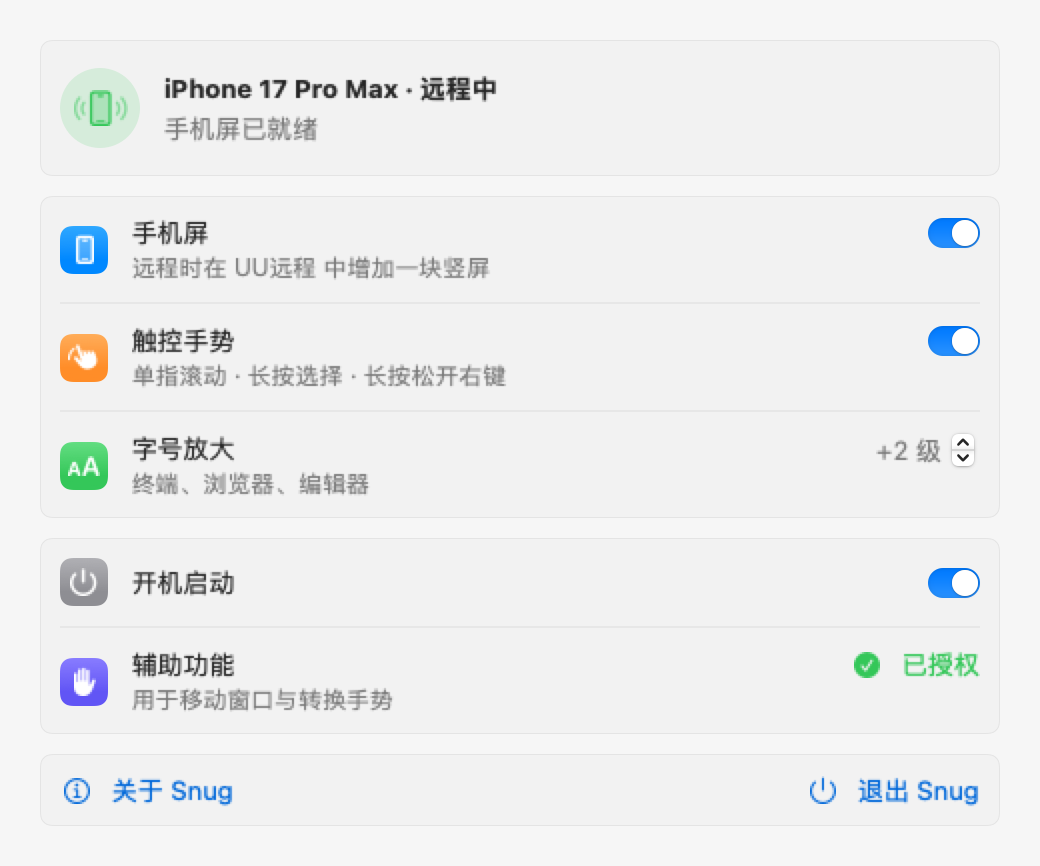
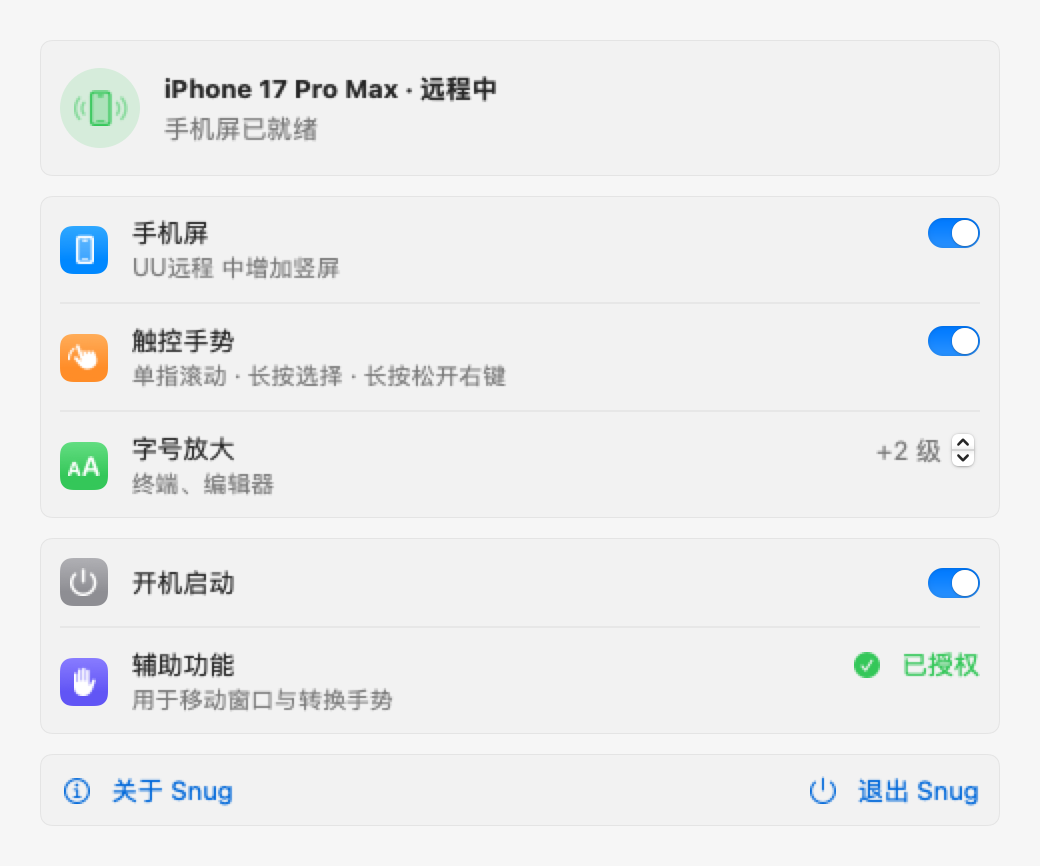
界面与工程收尾：设置页两类错误分开提示；文案改短词；列表只在用手机屏时刷新；UU 标识与辅助功能封装各留一处
- 设置页：「设置未保存」「开机启动未生效 · 需位于「应用程序」」各占一个提示位，各自成功时只清自己；
  系统给的长句错误只进日志，不进界面
- 旧版共存提示、关于页、手机屏开关的说明改成短词；字号放大的说明去掉浏览器
- 横屏按钮只在横竖切换时转圈，别的动作进行中只禁用
- 窗口列表只在手机正看着手机屏时刷新（不知道 UU 在推哪块屏时照旧刷）：每轮都要读一遍所有 App 的窗口，
  还和搬窗口共用一条队，很多会话从头到尾不切到手机屏
- UU 的 bundle ID 和 UURemoteServer 进程名收进 SnugCore 的 UURemote；UU 感知复用 SnugSystem 的 AX 封装，
  权限一律读 AX.isTrusted
- 删掉只有测试在用的 UUSignals.isPresent、SnugPaths.rotatedLogFile，和没人 import 的 SystemSettingsKit 依赖
- 改掉过期注释（DisplayID、ControllerReader）；README 配图按新界面重渲染，用法里写明列表覆盖所有窗口

Changed region(s): [[0.1231, 0.2806, 0.4923, 0.343], [0.2769, 0.53, 0.3692, 0.5924], [0.1846, 0.53, 0.2462, 0.5924]]

diff --git a/Sources/Snug/Sensing/UUAccessibility.swift b/Sources/Snug/Sensing/UUAccessibility.swift
@@ -4,14 +4,12 @@
 // 进程号由调用方在主线程查好传进来，后台只碰 AX，不碰 AppKit
 import ApplicationServices
 import SnugCore
+import SnugSystem
 
 enum UUAccessibility {
-    static let bundleID = "com.netease.uuremote"
     /// AX 树有环，按对象去重之外再限制深度和节点数；超限按「读不到」处理，不拿半截结果当真
     static let maxDepth = 25
     static let maxNodes = 2048
-
-    static var isTrusted: Bool { AXIsProcessTrusted() }
 
     /// 「本机被控中」表格里的控制端名称。主窗口读不到返回 nil，明确无人控制返回 []
     static func readControllers(pid: pid_t) -> [String]? {
@@ -31,29 +29,18 @@ enum UUAccessibility {
         return names
     }
 
-    // MARK: AX 基础
+    // MARK: AX 基础（薄封装在 SnugSystem 的 AX）
 
-    private static func appElement(_ pid: pid_t) -> AXUIElement {
-        let ax = AXUIElementCreateApplication(pid)
-        AXUIElementSetMessagingTimeout(ax, 1.0)
-        return ax
-    }
-
-    private static func attr(_ el: AXUIElement, _ name: String) -> AnyObject? {
-        var v: AnyObject?
-        return AXUIElementCopyAttributeValue(el, name as CFString, &v) == .success ? v : nil
-    }
-
-    private static func role(_ el: AXUIElement) -> String? { attr(el, kAXRoleAttribute) as? String }
-    private static func value(_ el: AXUIElement) -> String? { attr(el, kAXValueAttribute) as? String }
+    private static func role(_ el: AXUIElement) -> String? { AX.string(el, kAXRoleAttribute) }
+    private static func value(_ el: AXUIElement) -> String? { AX.string(el, kAXValueAttribute) }
 
     /// 窗口列表之外再读主窗口和焦点窗口：别的 App 占着全屏 Space 时，UU 的 AXWindows 可能是空的，
     /// 主窗口引用却还有效。按 AX 对象去重，不激活 UU、不切 Space（思路来自社区 PR #10，作者 Rongzheng Liu）
     private static func windows(pid: pid_t) -> [AXUIElement] {
-        let app = appElement(pid)
-        var result = (attr(app, kAXWindowsAttribute) as? [AXUIElement]) ?? []
+        let app = AX.application(pid)
+        var result = (AX.attribute(app, kAXWindowsAttribute) as? [AXUIElement]) ?? []
         for key in [kAXMainWindowAttribute, kAXFocusedWindowAttribute] {
-            guard let raw = attr(app, key), CFGetTypeID(raw) == AXUIElementGetTypeID() else { continue }
+            guard let raw = AX.attribute(app, key), CFGetTypeID(raw) == AXUIElementGetTypeID() else { continue }
             let window = raw as! AXUIElement
             guard role(window) == kAXWindowRole, !result.contains(where: { CFEqual($0, window) }) else { continue }
             result.append(window)
@@ -79,7 +66,7 @@ enum UUAccessibility {
         guard depth < maxDepth, out.count < maxNodes else { return false }
         seen.insert(node)
         out.append(node)
-        for child in (attr(node, kAXChildrenAttribute) as? [AXUIElement]) ?? [] {
+        for child in (AX.attribute(node, kAXChildrenAttribute) as? [AXUIElement]) ?? [] {
             guard flatten(child, depth: depth + 1, into: &out, seen: &seen) else { return false }
         }
         return true

diff --git a/Sources/Snug/UI/SettingsWindow.swift b/Sources/Snug/UI/SettingsWindow.swift
@@ -14,7 +14,7 @@ struct SettingsView: View {
             Section { StatusHeader(state: state, intents: intents) }
             Section {
                 Toggle(isOn: binding(state.config.phoneScreen, intents.setPhoneScreen)) {
-                    SettingLabel("手机屏", detail: "远程时在 UU远程 中增加一块竖屏", symbol: "iphone", tint: .blue)
+                    SettingLabel("手机屏", detail: "UU远程 中增加竖屏", symbol: "iphone", tint: .blue)
                 }
                 Toggle(isOn: binding(state.config.gestures, intents.setGestures)) {
                     SettingLabel("触控手势", detail: "单指滚动 · 长按选择 · 长按松开右键", symbol: "hand.draw.fill", tint: .orange)
@@ -29,7 +29,7 @@ struct SettingsView: View {
                             .labelsHidden()
                     }
                 } label: {
-                    SettingLabel("字号放大", detail: "终端、浏览器、编辑器", symbol: "textformat.size", tint: .green)
+                    SettingLabel("字号放大", detail: "终端、编辑器", symbol: "textformat.size", tint: .green)
                 }
                 .disabled(!state.config.phoneScreen)
             }
@@ -123,8 +123,11 @@ private struct StatusHeader: View {
                     Button("退出旧版") { intents.quitLegacyApp() }
                 }
             }
-            if let notice = state.notice {
-                Label(notice, systemImage: "exclamationmark.circle.fill").foregroundStyle(.orange)
+            if state.configSaveFailed {
+                Label("设置未保存", systemImage: "exclamationmark.circle.fill").foregroundStyle(.orange)
+            }
+            if state.loginItemFailed {
+                Label("开机启动未生效 · 需位于「应用程序」", systemImage: "exclamationmark.circle.fill").foregroundStyle(.orange)
             }
         }
         .padding(.vertical, 4)

diff --git a/Sources/SnugSystem/TouchTap.swift b/Sources/SnugSystem/TouchTap.swift
@@ -31,7 +31,7 @@ public final class TouchTap {
             return false
         }
         session = next
-        Log.info("手势翻译已开启（只接管 \(TapSession.sourceProcess) 发来、在手机屏里的操作）")
+        Log.info("手势翻译已开启（只接管 \(UURemote.serverProcess) 发来、在手机屏里的操作）")
         return true
     }
 
@@ -45,8 +45,6 @@ public final class TouchTap {
 
 /// 一次监听：自己的线程、自己的 run loop、自己的状态机。除了 start / stop，其余都只在这个线程上跑
 private final class TapSession: @unchecked Sendable {
-    /// UU 在 Mac 上注入事件的进程
-    static let sourceProcess = "UURemoteServer"
     /// eventSourceUserData 里的记号（'SNUG'）
     static let marker: Int64 = 0x534E_5547
 
@@ -199,7 +197,7 @@ private final class TapSession: @unchecked Sendable {
         var buffer = [CChar](repeating: 0, count: Int(MAXPATHLEN))
         let length = Int(proc_pidpath(pid, &buffer, UInt32(buffer.count)))
         let path = length > 0 ? String(decoding: buffer.prefix(length).map { UInt8(bitPattern: $0) }, as: UTF8.self) : ""
-        let match = (path as NSString).lastPathComponent == Self.sourceProcess
+        let match = (path as NSString).lastPathComponent == UURemote.serverProcess
         isUU[pid] = match
         return match
     }

diff --git a/Sources/Snug/App/AppController+Intents.swift b/Sources/Snug/App/AppController+Intents.swift
@@ -20,11 +20,11 @@ extension AppController: AppIntents {
     func setLaunchAtLogin(_ on: Bool) {
         do {
             if on { try SMAppService.mainApp.register() } else { try SMAppService.mainApp.unregister() }
-            state.notice = nil
+            state.update(\.loginItemFailed, false)
             Log.info("设置：开机启动 → \(on ? "开" : "关")")
         } catch {
-            state.notice = "开机启动设置失败：请将 Snug 移至「应用程序」后重试"
-            Log.error("开机启动设置失败：\(error)")
+            state.update(\.loginItemFailed, true)
+            Log.error("开机启动设置失败（\(Bundle.main.bundlePath)）：\(error)")
         }
         refreshLaunchAtLogin()
     }
@@ -72,11 +72,12 @@ extension AppController: AppIntents {
         do {
             try store.update(change)
         } catch {
-            state.notice = "设置未能保存：\(error.localizedDescription)"
+            state.update(\.configSaveFailed, true)
             Log.error("设置（\(what)）写盘失败：\(error)")
             return false
         }
         Log.info("设置：\(what)")
+        state.update(\.configSaveFailed, false)
         state.update(\.config, store.config)
         return true
     }

diff --git a/Sources/Snug/PhoneScreen/PhoneHomeView.swift b/Sources/Snug/PhoneScreen/PhoneHomeView.swift
@@ -41,7 +41,8 @@ struct PhoneHomeView: View {
         HStack(alignment: .center, spacing: 16) {
             Text("窗口").font(PhoneStyle.largeTitle)
             Spacer(minLength: 8)
-            RotateButton(orientation: phone.orientation, busy: phone.work != nil) { intents.rotate() }
+            RotateButton(orientation: phone.orientation, rotating: phone.work == .rotating) { intents.rotate() }
+                .disabled(phone.work != nil)
         }
     }
 
@@ -187,13 +188,13 @@ private struct RoundButton: View {
 
 private struct RotateButton: View {
     let orientation: Orientation
-    let busy: Bool
+    let rotating: Bool
     let action: () -> Void
 
     var body: some View {
         Button(action: action) {
             HStack(spacing: 8) {
-                if busy {
+                if rotating {
                     ProgressView().controlSize(.small)
                 } else {
                     Image(systemName: orientation == .portrait ? "rectangle.landscape.rotate" : "rectangle.portrait.rotate")
@@ -206,7 +207,6 @@ private struct RotateButton: View {
             .background(PhoneStyle.card, in: Capsule())
         }
         .buttonStyle(PressableStyle())
-        .disabled(busy)
     }
 }
 

diff --git a/Sources/Snug/Sensing/ControllerReader.swift b/Sources/Snug/Sensing/ControllerReader.swift
@@ -1,9 +1,10 @@
 // 后台读 UU 的「本机被控中」表格：串行，同一时刻只有一次读取在跑（不堆积），读得太慢的结果丢弃。
-// 结果放在加锁的盒子里，主线程每拍直接取，不经主队列转发。旧版把结果投回主线程再按「到达时间」判新鲜，
-// 主线程一卡 2 秒，后台早就读好的结果也被当成过期丢掉，没有覆盖窗口的会话就被误判断开（B4）
+// 结果放在加锁的盒子里，主线程每拍直接取，不经主队列转发：结果要是投回主线程、按到达时间判新鲜，
+// 主线程一卡，后台早就读好的结果也会被当成过期，没有覆盖窗口的会话就会被误判断开
 import Foundation
 import os
 import SnugCore
+import SnugSystem
 
 @MainActor
 final class ControllerReader {
@@ -21,7 +22,7 @@ final class ControllerReader {
 
     /// 每拍调用：返回此刻可信的控制端（nil = 读不到），没有读取在跑就发起下一次
     func poll() -> [String]? {
-        guard UUAccessibility.isTrusted, let pid = UURemoteApp.pid() else {
+        guard AX.isTrusted, let pid = UURemoteApp.pid() else {
             reset()
             return nil
         }

diff --git a/Sources/Snug/PhoneScreen/PhoneScreenWindows.swift b/Sources/Snug/PhoneScreen/PhoneScreenWindows.swift
@@ -30,6 +30,7 @@ final class PhoneScreenWindows {
     private func follow() {
         withObservationTracking {
             _ = state.phone
+            _ = state.streamedDisplay
         } onChange: { [weak self] in
             DispatchQueue.main.async {
                 MainActor.assumeIsolated {
@@ -52,11 +53,12 @@ final class PhoneScreenWindows {
         homeBar.setFrame(homeBarFrame(on: screen), display: true)
 
         let showList = phone.listVisible || phone.placed == nil
-        if showList {
-            list.orderFrontRegardless()
+        if showList { list.orderFrontRegardless() } else { list.orderOut(nil) }
+        // 列表每轮要把所有 App 的窗口读一遍，还和搬窗口共用一条队：手机没在看手机屏就不刷。
+        // 不知道 UU 在推哪块屏（推流日志没读到）时照旧刷
+        if showList, state.streamedDisplay == nil || state.phoneInUse {
             catalog.startRefreshing()
         } else {
-            list.orderOut(nil)
             catalog.stopRefreshing()
         }
         if phone.placed != nil, !showList { homeBar.orderFrontRegardless() } else { homeBar.orderOut(nil) }

diff --git a/Sources/Snug/Sensing/UURemoteApp.swift b/Sources/Snug/Sensing/UURemoteApp.swift
@@ -1,12 +1,13 @@
 // UU远程 自身的几样直接观测：进程号、覆盖窗口在不在屏
 import AppKit
 import CoreGraphics
+import SnugCore
 
 @MainActor
 enum UURemoteApp {
     /// UU远程 主程序的进程号；没在运行返回 nil
     static func pid() -> pid_t? {
-        NSRunningApplication.runningApplications(withBundleIdentifier: UUAccessibility.bundleID).first?.processIdentifier
+        NSRunningApplication.runningApplications(withBundleIdentifier: UURemote.bundleID).first?.processIdentifier
     }
 
     /// UURemoteServer 的覆盖窗口在屏：被远程时 UU 会在本机屏幕上放一个提示窗口
@@ -14,6 +15,6 @@ enum UURemoteApp {
         guard let list = CGWindowListCopyWindowInfo([.optionOnScreenOnly], kCGNullWindowID) as? [[String: Any]] else {
             return false
         }
-        return list.contains { ($0[kCGWindowOwnerName as String] as? String) == "UURemoteServer" }
+        return list.contains { ($0[kCGWindowOwnerName as String] as? String) == UURemote.serverProcess }
     }
 }

diff --git a/Sources/Snug/App/AppController.swift b/Sources/Snug/App/AppController.swift
@@ -37,7 +37,7 @@ final class AppController {
         desk = PhoneDesk(displays: PhoneDisplayService(helper: helper), windows: windows, paths: paths,
                          defaultZoom: store.config.zoomSteps)
         state.config = store.config
-        state.accessibilityTrusted = UUAccessibility.isTrusted
+        state.accessibilityTrusted = AX.isTrusted
     }
 
     var now: Date { anchor.date.addingTimeInterval(ProcessInfo.processInfo.systemUptime - anchor.uptime) }
@@ -105,7 +105,7 @@ final class AppController {
 
     /// 权限是用户在系统设置里给的，随时会变：刚给上时把上次没放回去的窗口放回去
     private func refreshTrust() {
-        let trusted = UUAccessibility.isTrusted
+        let trusted = AX.isTrusted
         guard trusted != state.accessibilityTrusted else { return }
         state.accessibilityTrusted = trusted
         Log.info("辅助功能权限：\(trusted ? "已授权" : "被收回")")

diff --git a/Sources/Snug/UI/LegacyNotice.swift b/Sources/Snug/UI/LegacyNotice.swift
@@ -13,9 +13,9 @@ struct LegacyNoticeView: View {
                 Image(systemName: "exclamationmark.triangle.fill").font(.title).foregroundStyle(.orange)
                 VStack(alignment: .leading, spacing: 8) {
                     Text("旧版「UU远程伴侣」运行中").font(.title3.bold())
-                    Text("两者同时运行会相互干扰")
+                    Text("与 Snug 同时运行将相互干扰")
                         .fixedSize(horizontal: false, vertical: true)
-                    Text("退出时旧版会自动还原其改动；不再使用可从「应用程序」中删除")
+                    Text("退出后自动还原 · 可从「应用程序」移除")
                         .font(.callout).foregroundStyle(.secondary).fixedSize(horizontal: false, vertical: true)
                 }
             }

diff --git a/Tests/SnugCoreTests/Session/ConnectionTrackerTests.swift b/Tests/SnugCoreTests/Session/ConnectionTrackerTests.swift
@@ -19,15 +19,6 @@ struct ConnectionTrackerTests {
         #expect(ConnectionTracker.maxCaptureVeto == 60)
     }
 
-    @Test("在场 = 覆盖窗口 || 控制端非空 || 推流为 true；nil 与 [] 都不算在场")
-    func presence() {
-        #expect(overlay.isPresent)
-        #expect(table("iPhone").isPresent)
-        #expect(capture(true).isPresent)
-        #expect(!none.isPresent)
-        #expect(!UUSignals(overlayVisible: false, controllers: nil, captureActive: nil).isPresent)
-    }
-
     @Test("首连不做确认延迟：第一次看到在场就连入，名字取 controllers.first")
     func immediateConnect() {
         var t = ConnectionTracker()

diff --git a/Sources/Snug/App/AppState.swift b/Sources/Snug/App/AppState.swift
@@ -23,8 +23,10 @@ final class AppState {
     var gesturesFailed = false
     var accessibilityTrusted = false
     var launchAtLogin = false
-    /// 需要告诉用户、但不影响运行的问题：设置未能保存、开机启动设置失败……
-    var notice: String?
+    /// 上一次改开机启动没成（多半是 Snug 不在「应用程序」里）
+    var loginItemFailed = false
+    /// 上一次改设置没能写进 config.json
+    var configSaveFailed = false
     /// 旧版「UU远程伴侣」正在运行
     var legacyAppRunning = false
     /// 正在退出收尾
